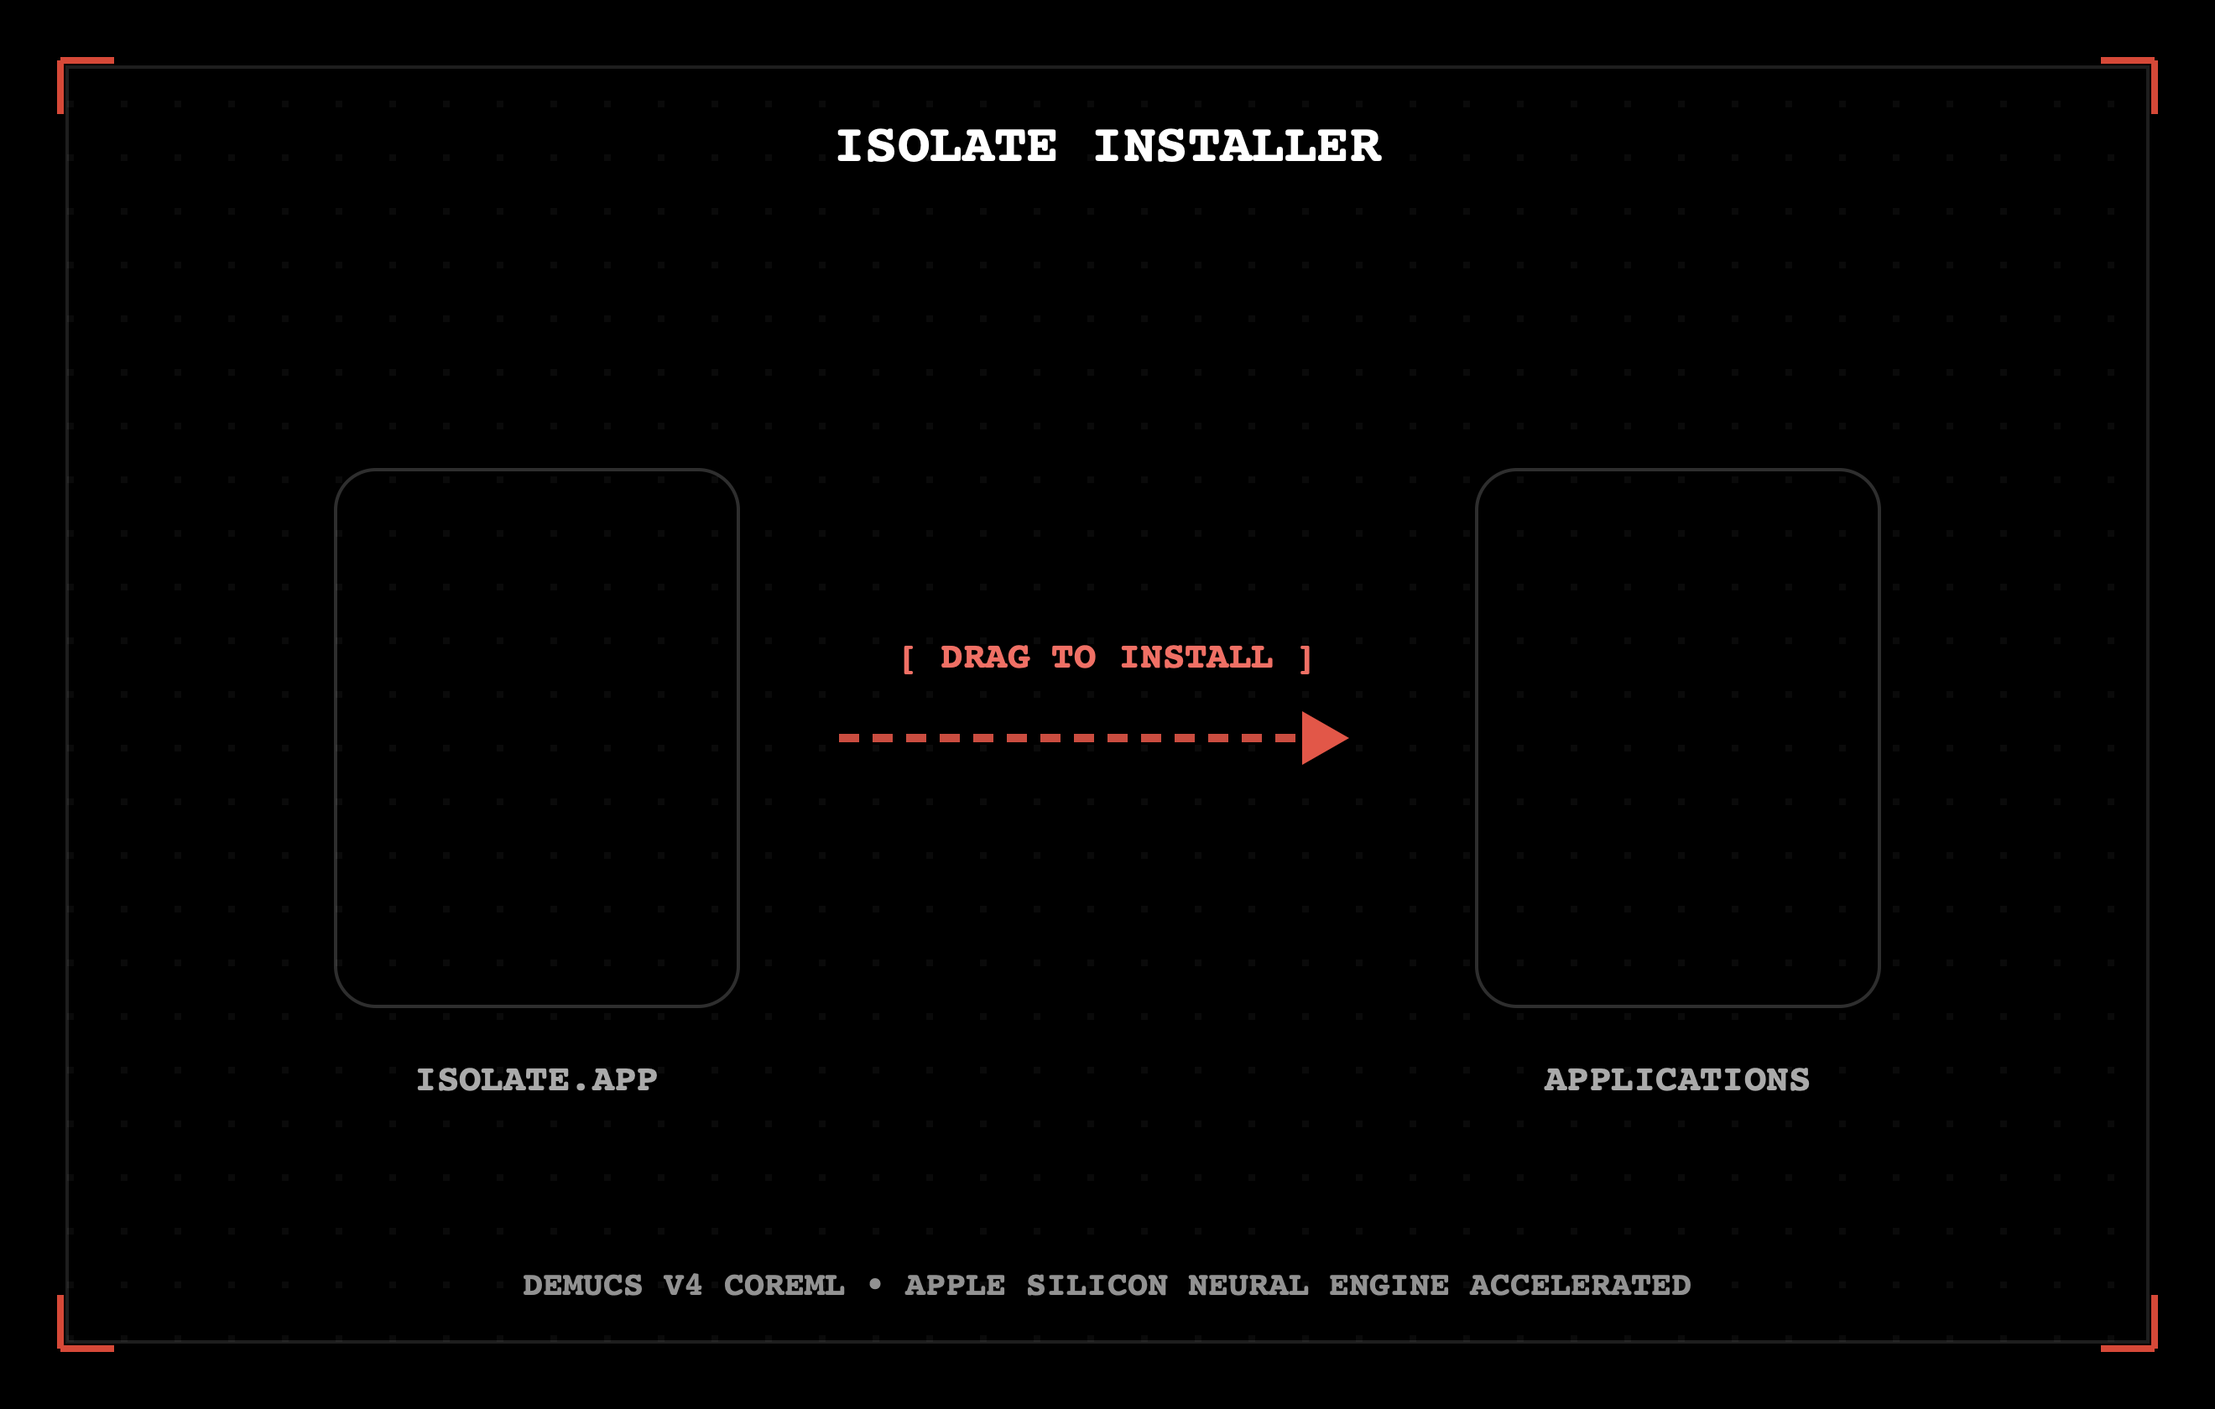
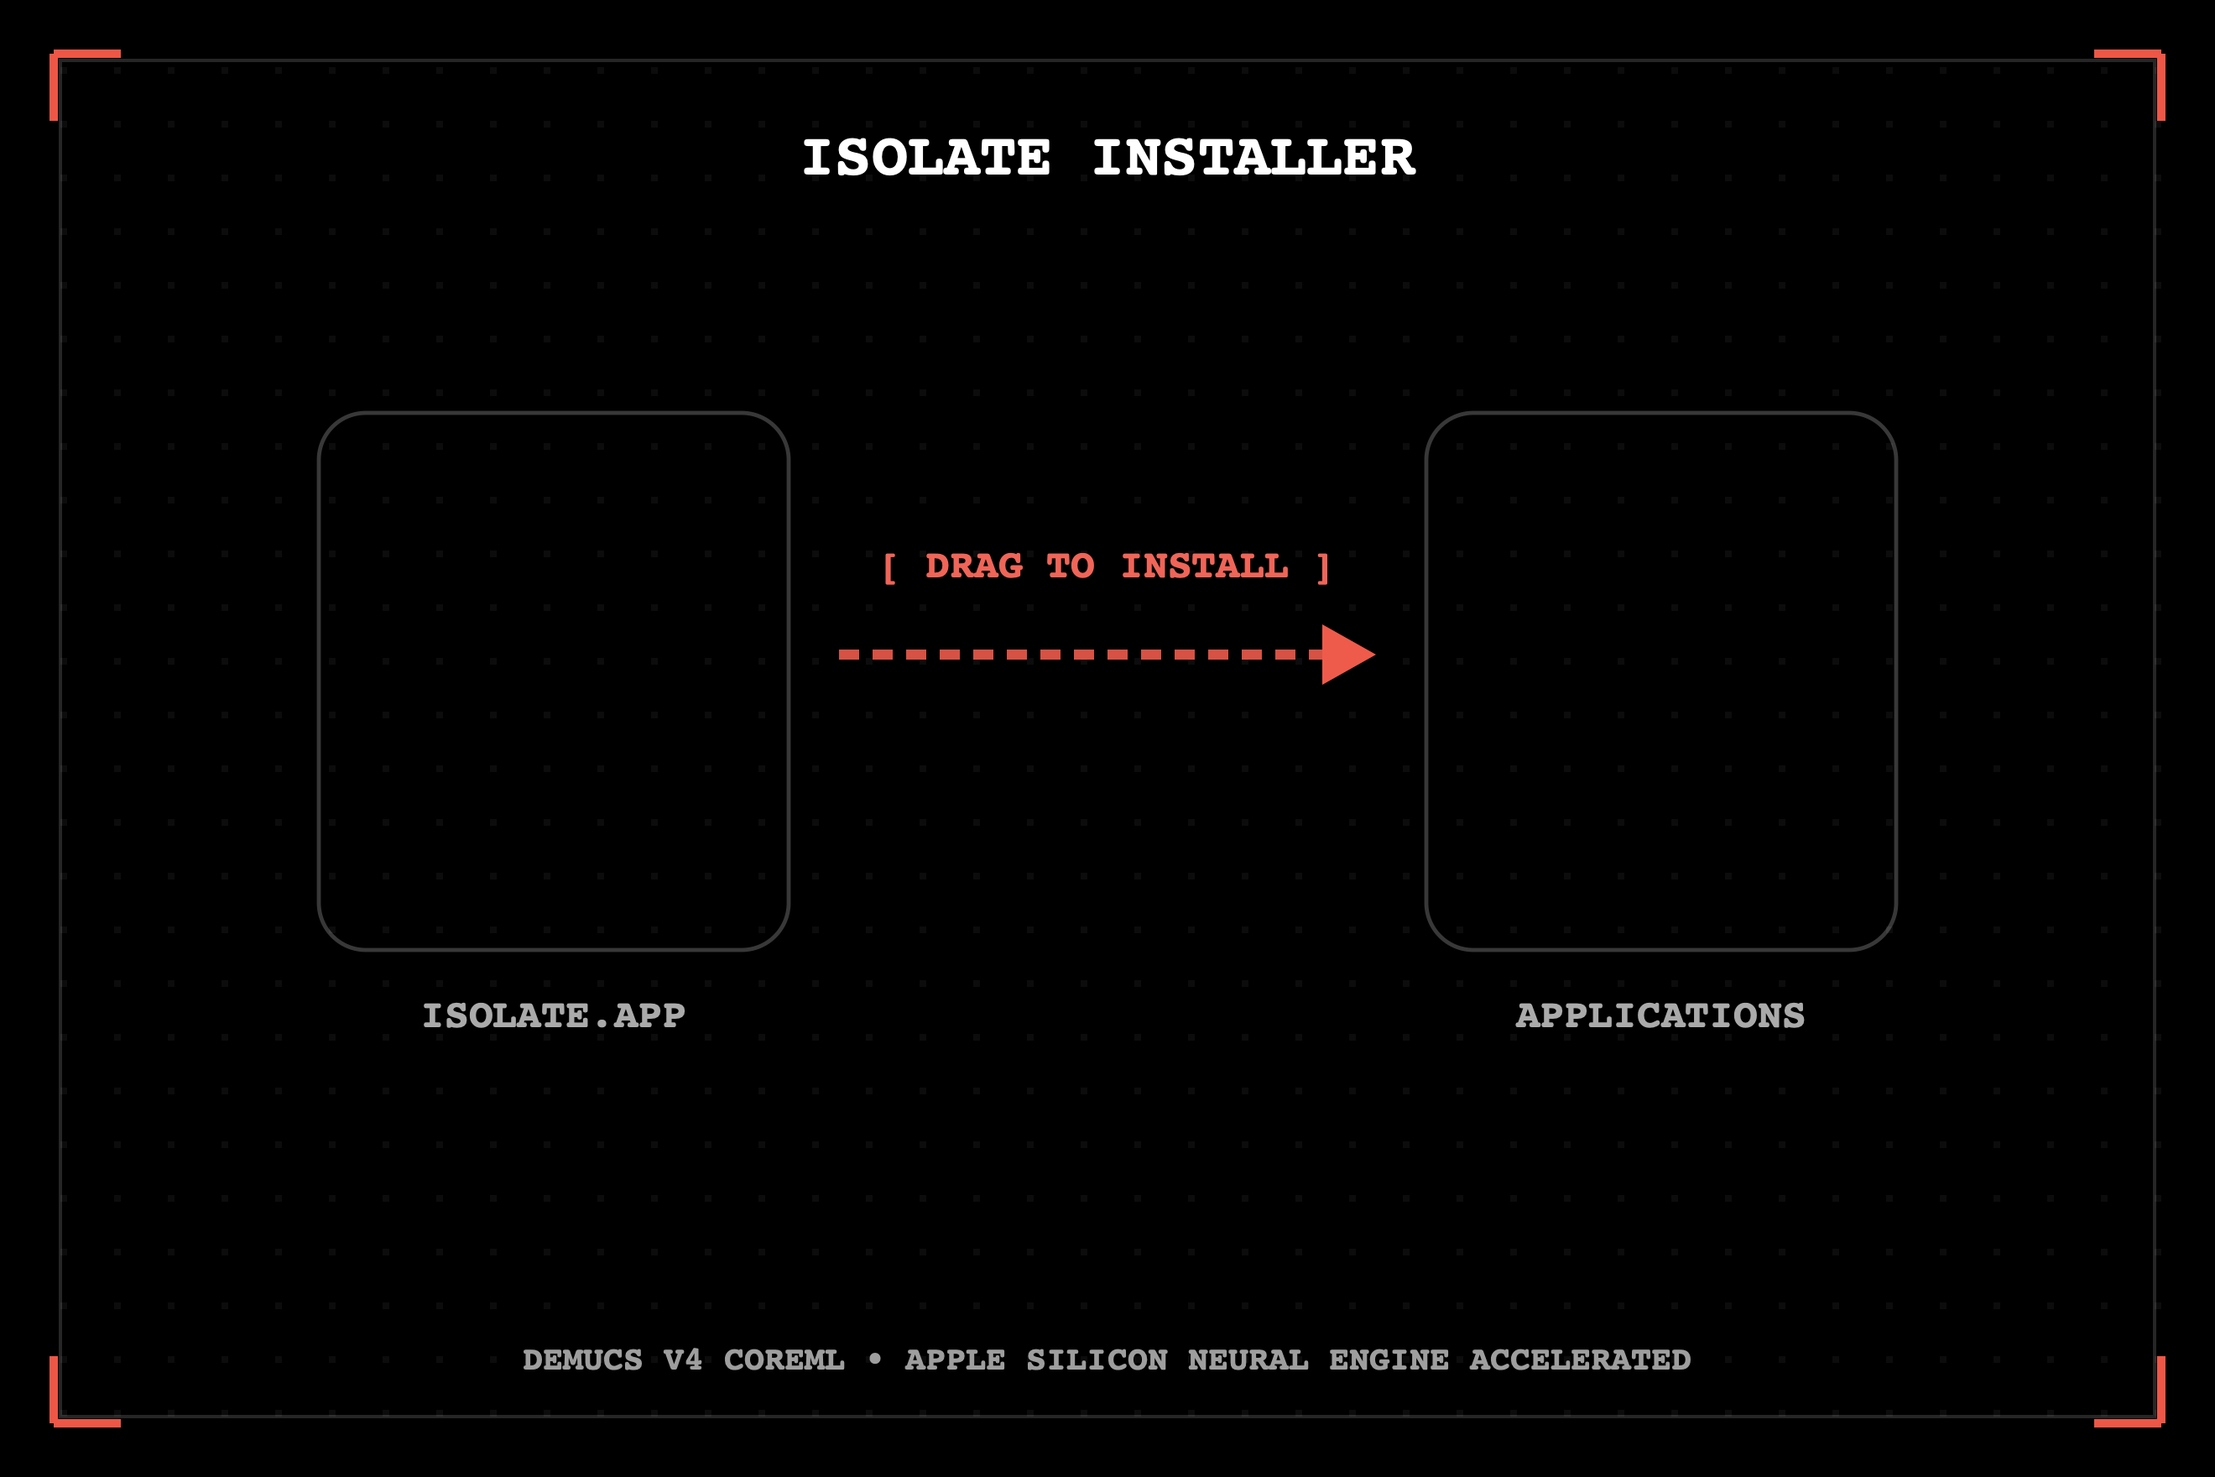
style: calibrate Finder coordinates, lock DMG window bounds, and generate multi-resolution AppIcon

diff --git a/scripts/generate_assets.swift b/scripts/generate_assets.swift
@@ -2,7 +2,7 @@ import Cocoa
 
 func createDMGBackground() {
     let width: CGFloat = 660
-    let height: CGFloat = 420
+    let height: CGFloat = 440
     let scale: CGFloat = 2.0
     let size = NSSize(width: width * scale, height: height * scale)
     
@@ -17,82 +17,92 @@ func createDMGBackground() {
     context.fill(CGRect(x: 0, y: 0, width: width, height: height))
     
     // Dot Matrix Pattern
-    context.setFillColor(CGColor(red: 1, green: 1, blue: 1, alpha: 0.04))
-    for x in stride(from: 20.0, through: width - 20.0, by: 16.0) {
-        for y in stride(from: 20.0, through: height - 20.0, by: 16.0) {
+    context.setFillColor(CGColor(red: 1, green: 1, blue: 1, alpha: 0.05))
+    for x in stride(from: 18.0, through: width - 18.0, by: 16.0) {
+        for y in stride(from: 18.0, through: height - 18.0, by: 16.0) {
             context.fill(CGRect(x: x, y: y, width: 2, height: 2))
         }
     }
     
     // Outer Subtle Border
-    context.setStrokeColor(CGColor(red: 1, green: 1, blue: 1, alpha: 0.12))
+    context.setStrokeColor(CGColor(red: 1, green: 1, blue: 1, alpha: 0.15))
     context.setLineWidth(1.0)
-    context.stroke(CGRect(x: 20, y: 20, width: width - 40, height: height - 40))
+    context.stroke(CGRect(x: 18, y: 18, width: width - 36, height: height - 36))
     
     // Red Corner Brackets
-    let bracketLen: CGFloat = 16.0
-    context.setStrokeColor(CGColor(red: 1.0, green: 0.15, blue: 0.15, alpha: 0.9))
-    context.setLineWidth(2.0)
+    let bracketLen: CGFloat = 20.0
+    context.setStrokeColor(CGColor(red: 1.0, green: 0.18, blue: 0.18, alpha: 1.0))
+    context.setLineWidth(2.5)
     
     // Bottom-Left
     context.strokeLineSegments(between: [
-        CGPoint(x: 18, y: 18 + bracketLen), CGPoint(x: 18, y: 18),
-        CGPoint(x: 18, y: 18), CGPoint(x: 18 + bracketLen, y: 18)
+        CGPoint(x: 16, y: 16 + bracketLen), CGPoint(x: 16, y: 16),
+        CGPoint(x: 16, y: 16), CGPoint(x: 16 + bracketLen, y: 16)
     ])
     // Bottom-Right
     context.strokeLineSegments(between: [
-        CGPoint(x: width - 18 - bracketLen, y: 18), CGPoint(x: width - 18, y: 18),
-        CGPoint(x: width - 18, y: 18), CGPoint(x: width - 18, y: 18 + bracketLen)
+        CGPoint(x: width - 16 - bracketLen, y: 16), CGPoint(x: width - 16, y: 16),
+        CGPoint(x: width - 16, y: 16), CGPoint(x: width - 16, y: 16 + bracketLen)
     ])
     // Top-Left
     context.strokeLineSegments(between: [
-        CGPoint(x: 18, y: height - 18 - bracketLen), CGPoint(x: 18, y: height - 18),
-        CGPoint(x: 18, y: height - 18), CGPoint(x: 18 + bracketLen, y: height - 18)
+        CGPoint(x: 16, y: height - 16 - bracketLen), CGPoint(x: 16, y: height - 16),
+        CGPoint(x: 16, y: height - 16), CGPoint(x: 16 + bracketLen, y: height - 16)
     ])
     // Top-Right
     context.strokeLineSegments(between: [
-        CGPoint(x: width - 18 - bracketLen, y: height - 18), CGPoint(x: width - 18, y: height - 18),
-        CGPoint(x: width - 18, y: height - 18), CGPoint(x: width - 18, y: height - 18 - bracketLen)
+        CGPoint(x: width - 16 - bracketLen, y: height - 16), CGPoint(x: width - 16, y: height - 16),
+        CGPoint(x: width - 16, y: height - 16), CGPoint(x: width - 16, y: height - 16 - bracketLen)
     ])
     
-    // Center Hardware Directional Arrow (Y inverted in CG: 210 is center)
-    let centerY: CGFloat = 200
-    context.setStrokeColor(CGColor(red: 1.0, green: 0.2, blue: 0.2, alpha: 0.85))
-    context.setLineWidth(2.5)
+    // Coordinate Mapping:
+    // In Finder (top-down, height=440):
+    // Isolate.app icon is at (165, 195).
+    // Applications icon is at (495, 195).
+    // In AppKit (bottom-up): Y_appkit = 440 - Y_finder = 245.
+    let iconCenterY: CGFloat = 245.0
+    let leftCenterX: CGFloat = 165.0
+    let rightCenterX: CGFloat = 495.0
+    
+    // Left Slot Drop-Target Box for Isolate.app
+    context.setStrokeColor(CGColor(red: 1, green: 1, blue: 1, alpha: 0.22))
+    context.setLineWidth(1.2)
+    let boxW: CGFloat = 140
+    let boxH: CGFloat = 160
+    let leftBox = CGRect(x: leftCenterX - boxW / 2, y: iconCenterY - boxH / 2 - 8, width: boxW, height: boxH)
+    let leftPath = CGPath(roundedRect: leftBox, cornerWidth: 14, cornerHeight: 14, transform: nil)
+    context.addPath(leftPath)
+    context.strokePath()
+    
+    // Right Slot Drop-Target Box for Applications
+    let rightBox = CGRect(x: rightCenterX - boxW / 2, y: iconCenterY - boxH / 2 - 8, width: boxW, height: boxH)
+    let rightPath = CGPath(roundedRect: rightBox, cornerWidth: 14, cornerHeight: 14, transform: nil)
+    context.addPath(rightPath)
+    context.strokePath()
+    
+    // Center Hardware Directional Arrow
+    context.setStrokeColor(CGColor(red: 1.0, green: 0.2, blue: 0.2, alpha: 0.9))
+    context.setLineWidth(3.0)
     context.setLineDash(phase: 0, lengths: [6, 4])
     context.strokeLineSegments(between: [
-        CGPoint(x: 250, y: centerY), CGPoint(x: 390, y: centerY)
+        CGPoint(x: 250, y: iconCenterY), CGPoint(x: 395, y: iconCenterY)
     ])
     context.setLineDash(phase: 0, lengths: []) // reset
     
     // Arrow Head
-    context.setFillColor(CGColor(red: 1.0, green: 0.2, blue: 0.2, alpha: 0.95))
+    context.setFillColor(CGColor(red: 1.0, green: 0.2, blue: 0.2, alpha: 1.0))
     let arrowPath = CGMutablePath()
-    arrowPath.move(to: CGPoint(x: 402, y: centerY))
-    arrowPath.addLine(to: CGPoint(x: 388, y: centerY + 8))
-    arrowPath.addLine(to: CGPoint(x: 388, y: centerY - 8))
+    arrowPath.move(to: CGPoint(x: 410, y: iconCenterY))
+    arrowPath.addLine(to: CGPoint(x: 394, y: iconCenterY + 9))
+    arrowPath.addLine(to: CGPoint(x: 394, y: iconCenterY - 9))
     arrowPath.closeSubpath()
     context.addPath(arrowPath)
     context.fillPath()
     
-    // Left Slot Target Box (Isolate.app at x: 160)
-    context.setStrokeColor(CGColor(red: 1, green: 1, blue: 1, alpha: 0.18))
-    context.setLineWidth(1.0)
-    let leftBox = CGRect(x: 100, y: 120, width: 120, height: 160)
-    let leftPath = CGPath(roundedRect: leftBox, cornerWidth: 12, cornerHeight: 12, transform: nil)
-    context.addPath(leftPath)
-    context.strokePath()
-    
-    // Right Slot Target Box (/Applications at x: 500)
-    let rightBox = CGRect(x: 440, y: 120, width: 120, height: 160)
-    let rightPath = CGPath(roundedRect: rightBox, cornerWidth: 12, cornerHeight: 12, transform: nil)
-    context.addPath(rightPath)
-    context.strokePath()
-    
     // Typography
     let fontName = "Courier-Bold"
-    let headerFont = NSFont(name: fontName, size: 11) ?? NSFont.monospacedSystemFont(ofSize: 11, weight: .bold)
-    let titleFont = NSFont(name: fontName, size: 16) ?? NSFont.monospacedSystemFont(ofSize: 16, weight: .bold)
+    let headerFont = NSFont(name: fontName, size: 12) ?? NSFont.monospacedSystemFont(ofSize: 12, weight: .bold)
+    let titleFont = NSFont(name: fontName, size: 18) ?? NSFont.monospacedSystemFont(ofSize: 18, weight: .bold)
     let telemetryFont = NSFont(name: fontName, size: 10) ?? NSFont.monospacedSystemFont(ofSize: 10, weight: .regular)
     
     // App Title Top
@@ -101,35 +111,34 @@ func createDMGBackground() {
         .foregroundColor: NSColor.white
     ]
     let titleStr = NSAttributedString(string: "ISOLATE INSTALLER", attributes: titleAttr)
-    titleStr.draw(at: NSPoint(x: (width - titleStr.size().width) / 2, y: height - 52))
+    titleStr.draw(at: NSPoint(x: (width - titleStr.size().width) / 2, y: height - 56))
     
     // Action Label Center
     let actionAttr: [NSAttributedString.Key: Any] = [
         .font: headerFont,
-        .foregroundColor: NSColor(calibratedRed: 1.0, green: 0.3, blue: 0.3, alpha: 1.0)
+        .foregroundColor: NSColor(calibratedRed: 1.0, green: 0.25, blue: 0.25, alpha: 1.0)
     ]
     let actionStr = NSAttributedString(string: "[ DRAG TO INSTALL ]", attributes: actionAttr)
-    actionStr.draw(at: NSPoint(x: (width - actionStr.size().width) / 2, y: centerY + 18))
+    actionStr.draw(at: NSPoint(x: (width - actionStr.size().width) / 2, y: iconCenterY + 20))
     
-    // Left Label
-    let leftAttr: [NSAttributedString.Key: Any] = [
+    // Target Box Labels
+    let boxLabelAttr: [NSAttributedString.Key: Any] = [
         .font: headerFont,
         .foregroundColor: NSColor.lightGray
     ]
-    let leftStr = NSAttributedString(string: "ISOLATE.APP", attributes: leftAttr)
-    leftStr.draw(at: NSPoint(x: 160 - leftStr.size().width / 2, y: 92))
+    let leftStr = NSAttributedString(string: "ISOLATE.APP", attributes: boxLabelAttr)
+    leftStr.draw(at: NSPoint(x: leftCenterX - leftStr.size().width / 2, y: leftBox.minY - 26))
     
-    // Right Label
-    let rightStr = NSAttributedString(string: "APPLICATIONS", attributes: leftAttr)
-    rightStr.draw(at: NSPoint(x: 500 - rightStr.size().width / 2, y: 92))
+    let rightStr = NSAttributedString(string: "APPLICATIONS", attributes: boxLabelAttr)
+    rightStr.draw(at: NSPoint(x: rightCenterX - rightStr.size().width / 2, y: rightBox.minY - 26))
     
     // Bottom Telemetry
     let footAttr: [NSAttributedString.Key: Any] = [
         .font: telemetryFont,
-        .foregroundColor: NSColor(calibratedWhite: 0.5, alpha: 1.0)
+        .foregroundColor: NSColor(calibratedWhite: 0.55, alpha: 1.0)
     ]
     let footStr = NSAttributedString(string: "DEMUCS V4 COREML • APPLE SILICON NEURAL ENGINE ACCELERATED", attributes: footAttr)
-    footStr.draw(at: NSPoint(x: (width - footStr.size().width) / 2, y: 32))
+    footStr.draw(at: NSPoint(x: (width - footStr.size().width) / 2, y: 30))
     
     image.unlockFocus()
     
@@ -145,11 +154,25 @@ func createDMGBackground() {
 }
 
 func createAppIcon() {
-    let sizes = [16, 32, 64, 128, 256, 512, 1024]
+    let iconSpecs: [(name: String, pixelSize: Int)] = [
+        ("icon_16x16.png", 16),
+        ("icon_16x16@2x.png", 32),
+        ("icon_32x32.png", 32),
+        ("icon_32x32@2x.png", 64),
+        ("icon_128x128.png", 128),
+        ("icon_128x128@2x.png", 256),
+        ("icon_256x256.png", 256),
+        ("icon_256x256@2x.png", 512),
+        ("icon_512x512.png", 512),
+        ("icon_512x512@2x.png", 1024)
+    ]
+    
     let iconsetDir = URL(fileURLWithPath: "Assets/AppIcon.iconset")
+    try? FileManager.default.removeItem(at: iconsetDir)
     try? FileManager.default.createDirectory(at: iconsetDir, withIntermediateDirectories: true)
     
-    for s in sizes {
+    for spec in iconSpecs {
+        let s = CGFloat(spec.pixelSize)
         let size = NSSize(width: s, height: s)
         let img = NSImage(size: size)
         img.lockFocus()
@@ -158,70 +181,67 @@ func createAppIcon() {
         let bounds = CGRect(x: 0, y: 0, width: s, height: s)
         
         // Dark Rounded Squircle Bezel
-        let corner = CGFloat(s) * 0.22
+        let corner = s * 0.2237 // Apple standard macOS squircle proportion
         let path = CGPath(roundedRect: bounds, cornerWidth: corner, cornerHeight: corner, transform: nil)
         ctx.addPath(path)
-        ctx.setFillColor(CGColor(red: 0.05, green: 0.05, blue: 0.05, alpha: 1.0))
+        ctx.setFillColor(CGColor(red: 0.04, green: 0.04, blue: 0.04, alpha: 1.0))
         ctx.fillPath()
         
-        // Border
+        // Subtle Inner Bezel Border
         ctx.addPath(path)
         ctx.setStrokeColor(CGColor(red: 0.25, green: 0.25, blue: 0.25, alpha: 1.0))
-        ctx.setLineWidth(max(1.0, CGFloat(s) * 0.015))
+        ctx.setLineWidth(max(1.0, s * 0.015))
         ctx.strokePath()
         
         // Center Hardware Graphic: 4 Isolated Stem Bars (Vocals, Drums, Bass, Other)
-        let barWidth = max(2.0, CGFloat(s) * 0.08)
-        let barSpacing = max(2.0, CGFloat(s) * 0.06)
-        let heights: [CGFloat] = [0.45, 0.75, 0.9, 0.55]
+        let barWidth = max(2.0, s * 0.085)
+        let barSpacing = max(2.0, s * 0.055)
+        let heights: [CGFloat] = [0.45, 0.78, 0.92, 0.58]
         let totalW = CGFloat(heights.count) * barWidth + CGFloat(heights.count - 1) * barSpacing
-        let startX = (CGFloat(s) - totalW) / 2.0
-        let maxHeight = CGFloat(s) * 0.45
-        let startY = (CGFloat(s) - maxHeight) / 2.0
+        let startX = (s - totalW) / 2.0
+        let maxHeight = s * 0.46
+        let startY = (s - maxHeight) / 2.0
         
         for (i, hFactor) in heights.enumerated() {
             let x = startX + CGFloat(i) * (barWidth + barSpacing)
             let h = maxHeight * hFactor
             let y = startY + (maxHeight - h) / 2.0
             
-            // Vocals (Red), others White/Gray
-            let color = (i == 1 || i == 2) ? CGColor(red: 1.0, green: 0.18, blue: 0.18, alpha: 1.0) : CGColor(red: 0.9, green: 0.9, blue: 0.9, alpha: 1.0)
+            // Vocals & Drums (Red), Bass & Other (White/Light Gray)
+            let color = (i == 1 || i == 2) ? CGColor(red: 1.0, green: 0.18, blue: 0.18, alpha: 1.0) : CGColor(red: 0.95, green: 0.95, blue: 0.95, alpha: 1.0)
             ctx.setFillColor(color)
             let barRect = CGRect(x: x, y: y, width: barWidth, height: h)
-            let barPath = CGPath(roundedRect: barRect, cornerWidth: barWidth * 0.4, cornerHeight: barWidth * 0.4, transform: nil)
+            let barPath = CGPath(roundedRect: barRect, cornerWidth: barWidth * 0.35, cornerHeight: barWidth * 0.35, transform: nil)
             ctx.addPath(barPath)
             ctx.fillPath()
         }
         
         // Red corner LED dot
-        let dotSize = max(3.0, CGFloat(s) * 0.06)
+        let dotSize = max(3.0, s * 0.065)
         ctx.setFillColor(CGColor(red: 1.0, green: 0.15, blue: 0.15, alpha: 1.0))
-        ctx.fillEllipse(in: CGRect(x: CGFloat(s) - corner - dotSize, y: CGFloat(s) - corner - dotSize, width: dotSize, height: dotSize))
+        ctx.fillEllipse(in: CGRect(x: s - corner - dotSize, y: s - corner - dotSize, width: dotSize, height: dotSize))
         
         img.unlockFocus()
         
         if let tiffData = img.tiffRepresentation,
            let rep = NSBitmapImageRep(data: tiffData),
            let png = rep.representation(using: .png, properties: [:]) {
-            let filename = "icon_\(s)x\(s).png"
-            try? png.write(to: iconsetDir.appendingPathComponent(filename))
-            if s <= 512 {
-                let filename2x = "icon_\(s)x\(s)@2x.png"
-                // For @2x, write next size or same
-            }
+            let outURL = iconsetDir.appendingPathComponent(spec.name)
+            try? png.write(to: outURL)
         }
     }
     
-    // Generate .icns using iconutil
+    // Generate AppIcon.icns using iconutil
     let proc = Process()
     proc.executableURL = URL(fileURLWithPath: "/usr/bin/iconutil")
     proc.arguments = ["-c", "icns", "Assets/AppIcon.iconset", "-o", "Assets/AppIcon.icns"]
     try? proc.run()
     proc.waitUntilExit()
     
-    // Copy to Sources/Resources
+    // Copy to Sources/Resources/AppIcon.icns
+    try? FileManager.default.removeItem(atPath: "Sources/Resources/AppIcon.icns")
     try? FileManager.default.copyItem(atPath: "Assets/AppIcon.icns", toPath: "Sources/Resources/AppIcon.icns")
-    print("Generated AppIcon.icns")
+    print("Generated complete multi-resolution AppIcon.icns")
 }
 
 createDMGBackground()
